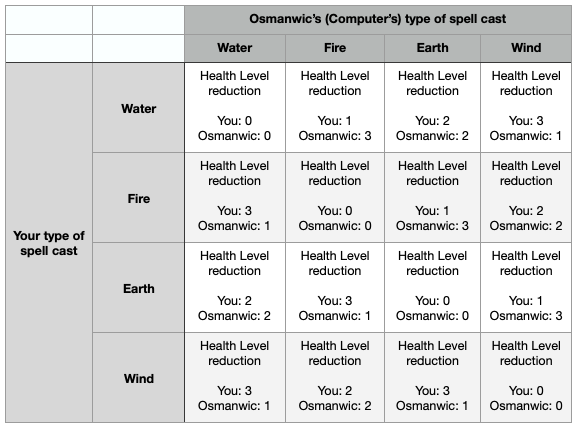
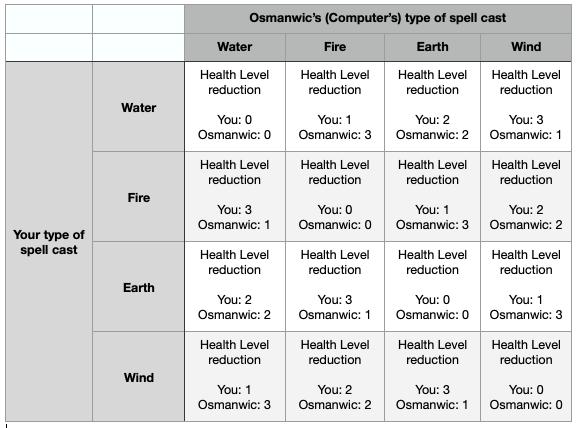
Edited Damage Table PNG

diff --git a/index.js b/index.js
@@ -1,17 +1,18 @@
 // Set game's start/default values
-let userHealthLevel = 16;
+let userHealthLevel = 7;
 let computerHealthLevel = 16;
 let roundsRemaining = 5;
 
-let userHealthLevelCount = document.querySelector('.userHealthLevelCount');
-userHealthLevelCount.textContent = `${userHealthLevel}`;
+const userHealthLevelCount = document.querySelector('.userHealthLevelCount');
+userHealthLevelCount.textContent = userHealthLevel;
+console.dir(userHealthLevelCount);
 
-let computerHealthLevelCount = document.querySelector(
+const computerHealthLevelCount = document.querySelector(
   '.computerHealthLevelCount'
 );
 computerHealthLevelCount.textContent = `${computerHealthLevel}`;
 
-let roundsRemainingCount = document.querySelector('.roundsRemainingCount');
+const roundsRemainingCount = document.querySelector('.roundsRemainingCount');
 roundsRemainingCount.textContent = `${roundsRemaining}`;
 
 // Get all buttons with class of .selectSpell
@@ -23,7 +24,6 @@ buttons.forEach((button) => {
 
 // Create playRound function to be called each time user clicks a .selectSpell button except if roundsRemaining === 0.
 function playRound(event) {
-  // console.dir(event.target);
   const userSpell = event.target.textContent;
 
   const arrayOfComputerSpells = ['Water', 'Fire', 'Earth', 'Wind'];
@@ -50,10 +50,20 @@ function playRound(event) {
     userHealthLevel = userHealthLevel - 2;
     computerHealthLevel = computerHealthLevel - 2;
     roundsRemaining--;
+  } else if (
+    (userSpell === 'Fire' && computerSpell === 'Water') ||
+    (userSpell === 'Earth' && computerSpell === 'Fire') ||
+    (userSpell === 'Wind' && computerSpell === 'Earth')
+  ) {
+    damageResult.innerText =
+      "Oof! Your Health Level decreases by 3 but Osmanwic's by only 1!";
+    userHealthLevel = userHealthLevel - 3;
+    computerHealthLevel = computerHealthLevel - 1;
+    roundsRemaining--;
+    // console.log(computerHealthLevel);
+    // console.log(userHealthLevel);
+    // console.log(roundsRemaining);
   }
-  console.log(computerHealthLevel);
-  console.log(userHealthLevel);
-  console.log(roundsRemaining);
 
   // function getUserSpell() {
   //   const arrayOfUserSpells = ['water', 'fire', 'earth', 'wind'];

diff --git a/index.html b/index.html
@@ -16,9 +16,9 @@
         You and fellow wizard Osmanwic are fighting a duel by casting spells
         against each other that harnesses the power of the Four Elements: Water,
         Fire, Earth, and Wind. How much a spell weakens an opponent (lowers
-        Health Level) can be affected by the spell that the opponent casts, as
-        shown in the Damage Table below. A wizards duel consists of five
-        rounds/turns, at which point the wizard who has been weakened the most
+        their Health Level) can be affected by the spell that the opponent
+        casts, as shown in the Damage Table below. A wizards duel consists of
+        five rounds, after which the wizard who has been weakened the most
         yields. When both have been equally weakened, they agree to call the
         duel a draw.
       </p>

diff --git a/README.md b/README.md
@@ -12,7 +12,7 @@ Using HTML, CSS, and JavaScript that manipluates the DOM, to create a simple gam
 
 ### Damage Table
 
-![dueling-wizards-damage-table](https://user-images.githubusercontent.com/115107346/221980506-e1e39adc-44a1-4861-a7f2-86212e0372cd.png)
+![dueling-wizards-damage-table](https://user-images.githubusercontent.com/115107346/222015178-ae5a0ff5-26e4-425b-8774-5df4d043b8e3.png)
 
 ## Features (Tech & Appraoch Used)
 
